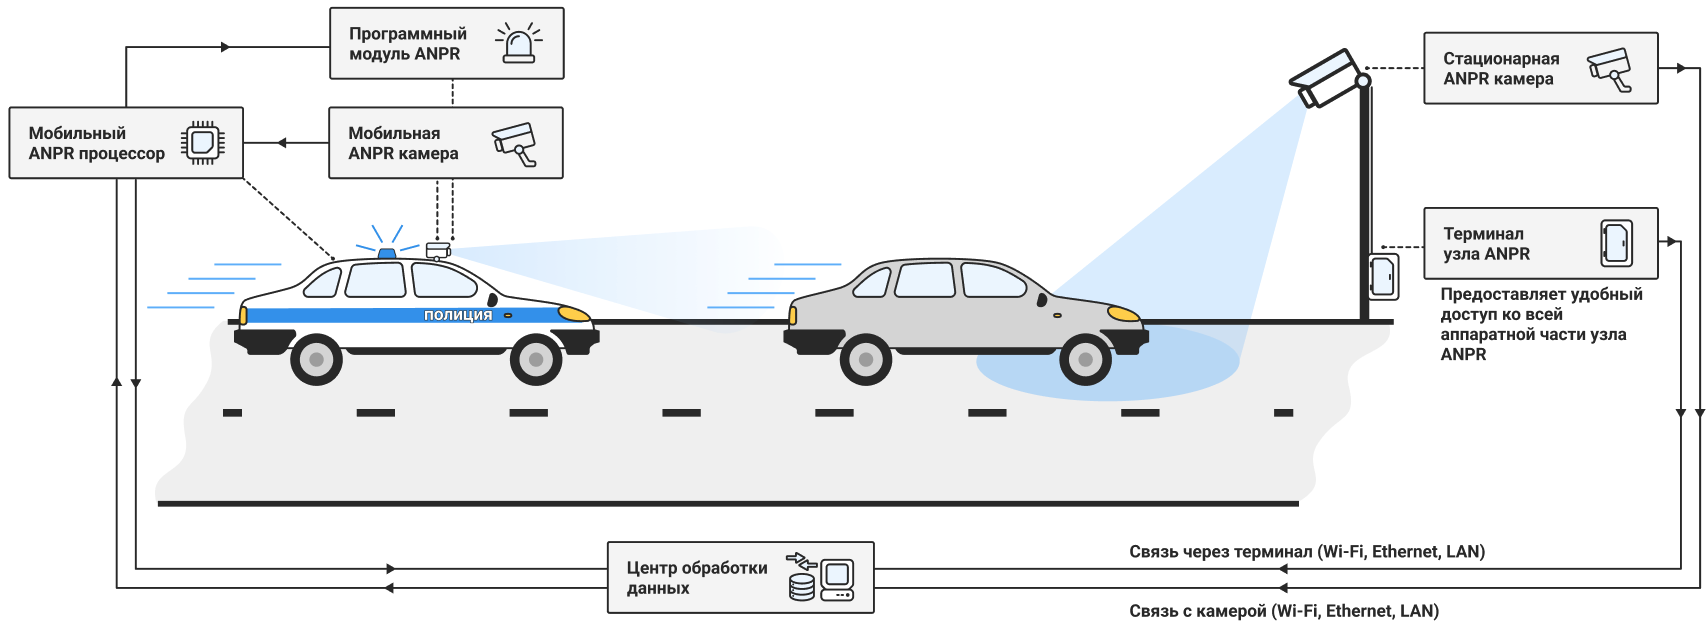
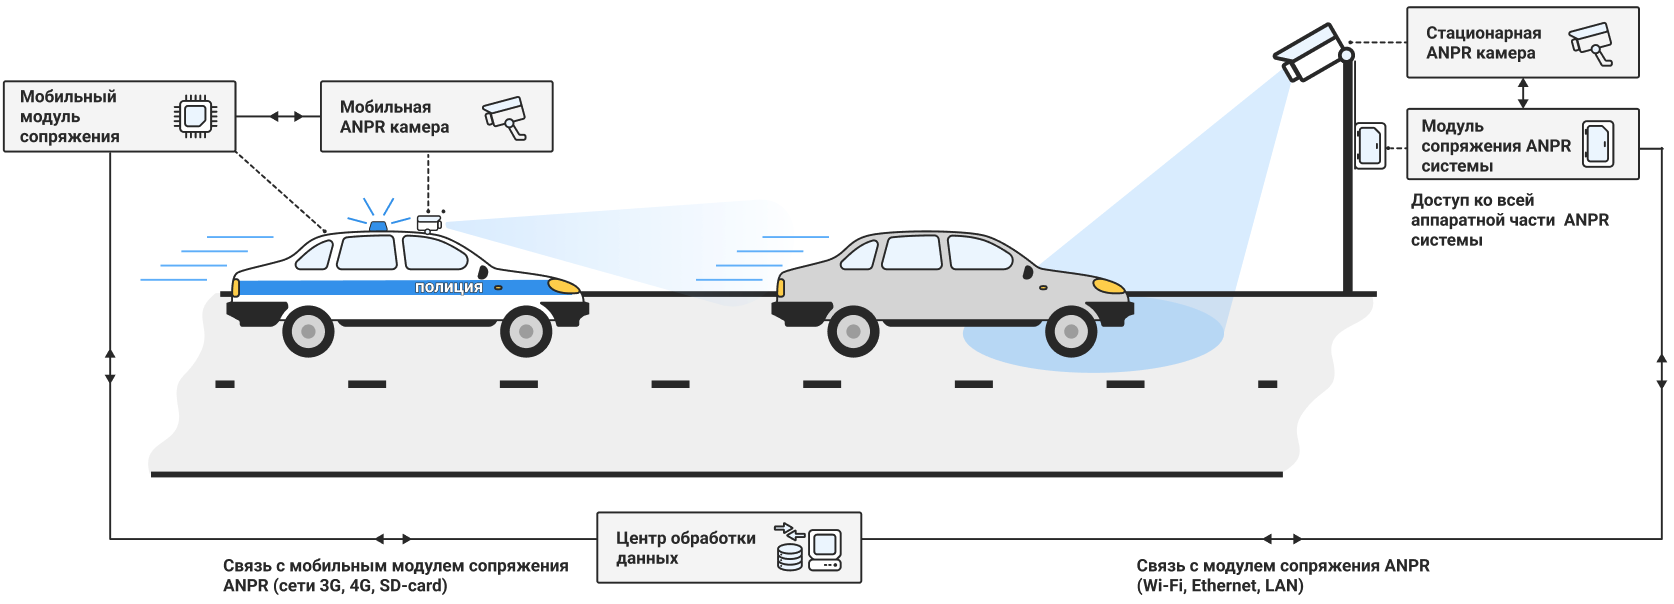
Update ANPR review

diff --git a/Disser.tex b/Disser.tex
@@ -158,7 +158,7 @@
 
 \subsubsection{Алгоритмы распознавания государственных регистрационных знаков}
 
-Распознавание государственных регистрационных знаков транспортных средств с помощью камер фотовидеофиксации является одним из наиболее распространённых способов идентификации автомобилей и фиксации нарушений правил дорожного движения. В англоязычной литературе для обозначения данной технологии используется несколько близких терминов: ANPR (Automatic Number Plate Recognition), ALPR (Automatic License Plate Recognition), LPR (License Plate Recognition), NPR (Number Plate Recognition), CPR (Car Plate Recognition), а также AVI (Automatic Vehicle Identification). В дальнейшем в данной работе под ANPR будет пониматься совокупность аппаратных и программных средств, предназначенных для получения изображения транспортного средства, выделения области номерного знака, преобразования содержащихся на нём символов в текстовую строку, а также определения иной информации на основе анализа изображения. В общем случае ANPR система осуществляет идентификацию транспортного средства по его государственному регистрационному знаку без участия оператора. Для этого используется камера, фиксирующая изображение или последовательность изображений автомобиля (рисунок~\ref{fig:anpr_structure}). В обзорной работе \cite{ANPR12} отмечается, что ANPR система может использовать цветные, чёрно-белые или инфракрасные камеры, а качество получаемого изображения является одним из ключевых факторов, определяющих успешность распознавания.
+Распознавание государственных регистрационных знаков транспортных средств с помощью камер фотовидеофиксации является одним из наиболее распространённых способов идентификации автомобилей и фиксации нарушений правил дорожного движения. В англоязычной литературе для обозначения данной технологии используется несколько близких терминов: ANPR (Automatic Number Plate Recognition), ALPR (Automatic License Plate Recognition), LPR (License Plate Recognition), NPR (Number Plate Recognition), CPR (Car Plate Recognition), AVI (Automatic Vehicle Identification) и другие. В дальнейшем в данной работе под ANPR будет пониматься совокупность аппаратных и программных средств, предназначенных для получения изображения транспортного средства, выделения области номерного знака, преобразования содержащихся на нём символов в текстовую строку, а также определения иной информации на основе анализа изображения. В общем случае ANPR система осуществляет идентификацию транспортного средства по его государственному регистрационному знаку без участия оператора. Для этого используется камера, фиксирующая изображение или последовательность изображений автомобиля (рисунок~\ref{fig:anpr_structure}). В обзорной работе \cite{ANPR12} отмечается, что ANPR система может использовать цветные, чёрно-белые или инфракрасные камеры, а качество получаемого изображения является одним из ключевых факторов, определяющих успешность распознавания.
 
 \begin{figure}[htbp]
     \centering
@@ -169,7 +169,7 @@
 
 Современные системы автоматического распознавания государственных регистрационных знаков применяются не только для идентификации транспортных средств, но и для решения широкого круга задач в области организации и контроля дорожного движения. Они используются для контроля доступа на охраняемые территории, управления парковочным пространством и системами взимания платы за проезд, автоматизации логистических процессов, выявления нарушений правил дорожного движения, а также в деятельности правоохранительных органов и служб безопасности. Кроме того, ANPR системы позволяют осуществлять мониторинг транспортных потоков: выполнять подсчёт и классификацию транспортных средств, определять направление и скорость их движения, оценивать длину очередей и другие характеристики дорожной обстановки~\cite{Lin2020, Thangallapally2018, Negassi2018}. Возможность автоматической обработки большого количества быстро движущихся транспортных средств обусловила широкое распространение технологии ANPR в интеллектуальных транспортных системах.
 
-Первые разработки в области автоматического распознавания государственных регистрационных знаков относятся к концу 1970-х годов. Согласно~\cite{ShraddhaShridharGhadage2020}, первая ANPR система была разработана в Великобритании по инициативе Police Scientific Development Branch. Первый работоспособный прототип системы появился в 1979 году; первоначально контракт на его создание был предоставлен компании EMI Electronics, а впоследствии дальнейшая разработка и совершенствование технологии были переданы компании Computer Recognition Systems (CRS).
+Первые разработки в области автоматического распознавания государственных регистрационных знаков относятся к концу 1970-х годов. Согласно~\cite{ShraddhaShridharGhadage2020}, первая ANPR система была разработана в Великобритании по инициативе Police Scientific Development Branch. Первый работоспособный прототип системы появился в 1979 году; первоначально контракт на его создание был предоставлен компании EMI Electronics, а впоследствии дальнейшая разработка и совершенствование технологии были переданы компании Computer Recognition Systems.
 
 Процесс идентификации траспортного средства в типовой ANPR системе включает несколько последовательных этапов (рисунок~\ref{fig:anpr_algorythm}). На первом этапе выполняется получение изображения ТС с помощью камеры. На втором этапе осуществляется локализация государственного регистрационного знака, то есть выделение области изображения, в которой предположительно расположен ГРЗ (Number Plate Extraction, NPE). Далее выполняется сегментация символов, при которой изображение номерного знака разделяется на отдельные буквенно-цифровые элементы (Character Segmentation, CS). На заключительном этапе производится распознавание символов с использованием методов OCR (Optical Character Recognition) или специализированных классификаторов~\cite{ANPR21}. При этом в современных нейросетевых подходах отдельные стадии могут объединяться, однако логически задача по-прежнему сводится к обнаружению номерного знака и распознаванию содержащейся на нём последовательности символов.
 
@@ -196,7 +196,7 @@
 
 \textcolor{red}{Начало PLAVAC (базированная база)}
 
-В современных исследованиях в области ANPR значительное внимание уделяется обеспечению устойчивого распознавания ГРЗ в неблагоприятных условиях эксплуатации систем идентификации транспорта~\cite{ANPR25}. Подробное исследование влияния искажающих факторов на эффективность автоматического распознавания ГРЗ представлено в работах авторов Nikola Plavac, Seyed Ali Amirshahi и других~\cite{Plavac2024, Plavac2024short}. В качестве основных факторов, вносящих неточности, исследовались погодные воздействия, включающие дождь, туман, снег и иней, изменение яркости изображения, а также электронный шум, возникающий при считывании сигнала с фоточувствительного сенсора камеры (рисунок~\ref{fig:distortions}). Для большинства типов воздействий на входное изображение использовалось пять уровней интенсивности, что позволило исследовать изменение эффективности различных алгоритмов ANPR при последовательном ухудшении условий съёмки.
+В современных исследованиях систем идентификации транспорта всё чаще уделяется внимание обеспечению устойчивого распознавания ГРЗ при неблагоприятных условиях окружающей среды~\cite{ANPR25}. Подробное исследование влияния искажающих факторов на эффективность автоматического распознавания ГРЗ представлено в работах авторов Nikola Plavac, Seyed Ali Amirshahi и других~\cite{Plavac2024, Plavac2024short}. В качестве основных факторов, вносящих неточности, исследовались погодные воздействия, включающие дождь, туман, снег и иней, изменение яркости изображения, а также электронный шум, возникающий при считывании сигнала с фоточувствительного сенсора камеры (рисунок~\ref{fig:distortions}). Для каждого вида искажения входного изображения, как правило, предусматривалось пять уровней интенсивности, которые последовательно применялись к каждому изображению. Это позволило исследовать изменение эффективности различных алгоритмов ANPR по мере увеличения степени искажения изображений.
 
 \begin{figure}[h]
     \centering
@@ -211,37 +211,58 @@
 
 Существенное снижение эффективности ANPR систем наблюдалось при моделировании инея и снега. Для всех трёх исследованных систем увеличение интенсивности влияния инея на входные изображения сопровождалось снижением точности распознавания, однако величина этого снижения существенно различалась. Наиболее чувствительной оказалась система ALPR in Unconstrained Scenarios - её точность уменьшалась практически до нуля при максимальном уровне искажения инеем. Значительное ухудшение наблюдалось и для коммерческой системы UltimateALPR-SDK - её точность снижалась до 35,39\%. Алгоритм HyperLPR оказался более устойчивым к данному воздействию - в худшем случае вероятность идентификации ГРЗ опускалась не ниже 58,04\%.
 
-Также авторы изучали, на каком этапе определения номера возникает ошибка распознавания. Для этого наряду с общей точностью распознавания анализировались ошибки обнаружения номерного знака и ошибки распознавания его символов. Установлено, что различные виды искажений по-разному воздействуют на компоненты ANPR алгоритмов. В частности, дождь и шум считывания камеры в большей степени влияют на этап обнаружения номерного знака, тогда как изменение яркости, туман, иней и снег в ряде исследованных моделей сильнее сказываются на распознавании символов. При этом характер деградации распознавания существенно зависит от используемой архитектуры.
+Также авторы изучали, на каком этапе определения номера возникает ошибка распознавания. Для этого наряду с общей точностью распознавания анализировались ошибки локализации номерного знака и ошибки распознавания его символов. Установлено, что различные виды искажений по-разному воздействуют на компоненты ANPR алгоритмов. В частности, дождь и шум считывания камеры в большей степени влияют на этап локализации номерного знака, тогда как изменение яркости, туман, иней и снег в ряде исследованных моделей сильнее сказываются на распознавании отдельных символов. При этом характер деградации распознавания ГРЗ существенно зависит от применяемого алгоритма.
 
-\textcolor{red}{КОНЕЦ PLAVAC}
+\textcolor{red}{Конец PLAVAC (базированная база)}
 
-\textcolor{red}{Начало 72 и 8\% РАСПОЗНАВАНИЯ}
+\textcolor{red}{Начало парковки и '72 и 8\% распознавания'}
 
-В работе~\cite{Advaith2026} представлена ANPR система, разработанная для управления доступом ТС на парковку. Для обнаружения номерного знака на изображении использовалась нейросетевая архитектура InceptionResNetV2, а для распознавания отдельных символов — комбинация архитектур MobileNetV2 и EfficientNetV2. Обучение и тестирование алгоритмов проводились на наборах изображений индийских ГРЗ. В результате проведённых численных экспериментов вероятность обнаружения номерных знаков составила 97,3\%, а точность распознавания отдельных символов — 98,59\%. При совместном выполнении этапов обнаружения и распознавания символов точность определения полного номерного знака достигала 95,8\%.
+ANPR системы находят широкое применение при автоматизации парковок, обеспечивая идентификацию ТС при въезде и выезде, контроль доступа и учёт продолжительности стоянки автомобилей. В работах~\cite{Kalva2025,Pradhan2025,Ebrahimishadman2026} представлены различные варианты таких систем, основанные на современных алгоритмах локализации и распознавания номерных знаков. Авторами рассматриваются вопросы повышения точности распознавания и обеспечения работоспособности систем в реальных условиях эксплуатации. При этом результаты исследований указывают на снижение эффективности распознавания при ухудшении условий получения изображений (вплоть до значений порядка 0,8), а также на различия между точностью отдельных алгоритмов.
 
-Помимо разработки очередного ANPR алгоритма, авторы уделили внимание исследованию работоспособности предложенной системы при неблагоприятных условиях окружающей среды. При сильном тумане, ограничивающем видимость до 50 м, вероятность идентификации номерных знаков снижалась с 97,3 до 72\%. Более существенное ухудшение наблюдалось при сильном дожде, когда точность распознавания отдельных символов составляла всего 8 \% по сравнению с 98,59 \%, полученными при тестировании алгоритма в обычных условиях. Таким образом, воздействие неблагоприятных погодных факторов приводило к значительному снижению эффективности работы ANPR системы.
+В работе~\cite{Advaith2026} представлена ANPR система, разработанная для управления доступом ТС на парковку. Для обнаружения номерного знака на изображении использовалась нейросетевая архитектура InceptionResNetV2, а для распознавания отдельных символов — комбинация архитектур MobileNetV2 и EfficientNetV2. Обучение и тестирование алгоритмов проводились на наборах изображений индийских ГРЗ. В результате проведённых численных экспериментов вероятность локализации номерных знаков составила 97,3\%, а точность распознавания отдельных символов — 98,59\%. При совместном выполнении этапов локализации и распознавания символов точность распознавания ГРЗ достигала 95,8\%.
 
-\textcolor{red}{КОНЕЦ 72 и 8\% РАСПОЗНАВАНИЯ}
+Помимо разработки очередного ANPR алгоритма, авторы уделили внимание исследованию работоспособности предложенной системы при неблагоприятных условиях окружающей среды. При сильном тумане, ограничивающем видимость до 50 м, вероятность идентификации номерных знаков снижалась с 97,3\% до 72\%. Более существенное ухудшение наблюдалось при сильном дожде, когда точность распознавания отдельных символов составляла всего 8 \% по сравнению с 98,59 \%, полученными при тестировании алгоритма в обычных условиях. Таким образом, воздействие неблагоприятных погодных факторов приводило к значительному снижению эффективности работы ANPR системы.
+
+\textcolor{red}{Конец парковки и '72 и 8\% распознавания'}
 
 \textcolor{red}{Начало обсуждения про идентификацию марки и цвета камерой}
 
-В современных системах фотовидеофиксации наряду с распознаванием государственных регистрационных знаков могут определяться дополнительные визуальные характеристики транспортного средства, в частности его марка, модель и цвет. Использование таких признаков позволяет осуществлять поиск транспортных средств по их внешним характеристикам, а также получать дополнительную информацию, которая может быть использована при идентификации. Возможность применения данного подхода исследовалась в работе Panetta и соавторов~\cite{Panetta2021}. Авторами разработана система V-Localize, предназначенная для автоматического поиска и распознавания автомобилей на видеозаписях дорожного движения по совокупности визуальных признаков, включающих марку, модель, год выпуска и цвет. Для определения указанных характеристик исследовались различные нейросетевые архитектуры, среди которых наилучшие результаты продемонстрировала RepVGG. При тестировании на отдельных изображениях точность определения марки, модели и года выпуска автомобиля составила 85,59\%, а точность определения цвета — 91,60\%.
+В современных системах фотовидеофиксации наряду с распознаванием государственных регистрационных знаков могут определяться дополнительные визуальные характеристики ТС, в частности его марка, модель и цвет. Использование таких признаков позволяет осуществлять поиск транспортных средств по их внешним характеристикам, а также повышать достоверность их идентификации за счёт учёта дополнительной информации~\cite{Sadiq2025, Gayen2024, Lima2024}. Возможность применения данного подхода исследовалась в работе Panetta и соавторов~\cite{Panetta2021}. Авторами разработана система V-Localize, предназначенная для автоматического поиска и распознавания автомобилей на видеозаписях дорожного движения по совокупности визуальных признаков, включающих марку, модель, год выпуска и цвет. Для определения указанных характеристик исследовались различные нейросетевые архитектуры, среди которых наилучшие результаты продемонстрировала RepVGG. При тестировании на отдельных изображениях точность определения марки, модели и года выпуска автомобиля составила 85,59\%, а точность определения цвета — 91,60\%.
 
 Исследование эффективности определения цвета автомобиля в неблагоприятных погодных условиях представлено в работе~\cite{Hu2022}. Авторами разработан алгоритм JADAR (Joint Algorithm for Deraining And Recognition), основанный на совместном применении нейросетевых архитектур RetinaNet и UNet и предназначенный для обнаружения транспортных средств и определения их цвета на изображениях, полученных в условиях дождя. Для оценки эффективности предложенного подхода использовался набор данных Rain Vehicle Color-24, содержащий изображения автомобилей 24 цветовых категорий с искусственно смоделированным воздействиям дождя. Дополнительно проводилось тестирование на изображениях, полученных камерами дорожного видеонаблюдения в дождливую погоду.
 
-В ходе исследования проводилось сравнение разработанного алгоритма с рядом существующих методов обнаружения объектов и определения цвета транспортных средств. В качестве основного показателя эффективности использовалась средняя точность обнаружения по всем цветовым категориям (mAP). По результатам тестирования на наборе Rain Vehicle Color-24 значения mAP для алгоритмов SMNN-MSFF и YOLOv3 составили 48,58\% и 49,88\% соответственно, для Faster R-CNN — 60,65\%, SSD — 66,33\%, RetinaNet — 67,77\%. Наибольшее значение данного показателя, равное 72,07\%, было получено для разработанного авторами алгоритма JADAR. При этом эффективность определения цвета существенно зависела от цветовой категории автомобиля. Например, при использовании YOLOv3 показатель mAP для серого цвета составил 0,15, для коричневого — 0,22, а для тёмно-зелёного, красно-оранжевого и ряда других цветов оказался равен нулю. Полученные результаты показывают, что определение цвета транспортного средства в условиях дождя представляет собой достаточно сложную задачу даже при использовании современных нейросетевых алгоритмов. 
+В ходе исследования проводилось сравнение разработанного алгоритма с рядом существующих методов обнаружения объектов и определения цвета транспортных средств. В качестве основного показателя эффективности использовалась средняя точность обнаружения по всем цветовым категориям (mAP). По результатам тестирования на наборе Rain Vehicle Color-24 значения mAP для алгоритмов SMNN-MSFF и YOLOv3 составили 48,58\% и 49,88\% соответственно, для Faster R-CNN — 60,65\%, SSD — 66,33\%, RetinaNet — 67,77\%. Наибольшее значение данного показателя, равное 72,07\%, было получено для разработанного авторами алгоритма JADAR. При этом эффективность определения цвета существенно зависела от цветовой категории автомобиля. Например, при использовании YOLOv3 показатель mAP для серого цвета составил 15\%, для коричневого — 22\%, а для тёмно-зелёного, красно-оранжевого и ряда других цветов оказался равен нулю. Полученные результаты показывают, что определение цвета транспортного средства в условиях дождя представляет собой достаточно сложную задачу даже при использовании современных нейросетевых алгоритмов. 
 
 \textcolor{red}{Конец обсуждения про идентификацию марки и цвета камерой}
 
+\textcolor{red}{Начало обсуждения про зависимость результатов от смены датасетов}
+
+Одной из проблем, возникающих при разработке систем автоматического распознавания государственных регистрационных знаков, является снижение эффективности алгоритмов при обработке изображений, характеристики которых отличаются от характеристик данных, использовавшихся при обучении. Это обусловлено тем, что наборы изображений могут различаться по условиям съёмки, качеству изображений, форматам номерных знаков и другим особенностям~\cite{Wang2025, Khokhar2024, Laroca2022, Laroca2022a}. В связи с этим представляет интерес исследование устойчивости алгоритмов распознавания к изменению характеристик входных данных, а также разработка методов, позволяющих повысить их эффективность при работе с ранее неизвестными наборами изображений. Данная проблема была рассмотрена в работе~\cite{Laroca2025}, в которой проводилось сравнительное исследование 16 нейросетевых моделей распознавания ГРЗ на 12 общедоступных наборах изображений. Эксперименты предусматривали тестирование моделей как на наборах данных, использовавшихся при их обучении, так и на ранее неизвестных наборах.
+
+
+Результаты исследования показали, что эффективность распознавания может существенно снижаться при переходе к новым наборам изображений. В частности, для модели TRBA средняя доля правильно распознанных ГРЗ при тестировании на наборах данных, представленных в обучающей выборке, составляла 97,9\%, тогда как при использовании ранее неизвестных наборов снижалась до 92,9\%. Для модели STAR-Net соответствующие значения составляли 97,9\% и 90,7\%. При этом на отдельных наборах данных наблюдалось более существенное снижение эффективности. Так, при тестировании модели TRBA на наборе OpenALPR-EU доля правильно распознанных номерных знаков составляла 76,9\%, тогда как на наборе OpenALPR-BR достигала 99,4\%. Авторами также показано, что использование синтетических изображений при обучении позволяет повысить устойчивость алгоритмов распознавания, однако не устраняет полностью различия в эффективности при переходе к новым наборам данных.
+
+\textcolor{red}{Конец обсуждения про зависимость результатов от смены датасетов}
+
 Таким образом, высокая точность ANPR систем, достигаемая при благоприятных условиях съёмки, не гарантирует сохранения сопоставимой эффективности при ухудшении качества входного изображения. В зависимости от характера внешнего воздействия и используемого алгоритма точность распознавания может снижаться от незначительных величин до нескольких десятков процентных пунктов, а при наиболее неблагоприятных сочетаниях условий — практически до нулевых значений. Результаты обзора тестирования различных алгоритмов ANPR систем показывают, что при оценке эффективности идентификации транспортных средств с использованием камер необходимо учитывать не только точность применяемого алгоритма в штатных условиях, но и её изменение под воздействием факторов внешней среды.
+
+
 
 \subsubsection{Экспериментальные исследования эффективности камер фотовидеофиксации}
 
-Оценка эффективности алгоритмов автоматического распознавания государственных регистрационных знаков, как правило, осуществляется путём их тестирования на заранее подготовленных наборах изображений. Такой подход позволяет сравнивать различные алгоритмы и определять их устойчивость к изменениям характеристик изображений. Однако эффективность ANPR системы в реальных условиях эксплуатации зависит не только от используемого алгоритма, но и от характеристик аппаратных средств, в частности камеры, а также условий формирования изображения. Поэтому наряду с тестированием отдельных алгоритмов важное значение имеет экспериментальная оценка эффективности ANPR систем как законченных аппаратно-программных комплексов, учитывающая влияние процесса получения изображений на результаты распознавания ГРЗ.
+Оценка эффективности алгоритмов автоматического распознавания государственных регистрационных знаков, как правило, осуществляется путём их тестирования на заранее подготовленных наборах изображений. Такой подход позволяет сравнивать различные алгоритмы и определять их устойчивость к изменениям характеристик изображений. Однако эффективность ANPR системы в реальных условиях эксплуатации зависит не только от используемого алгоритма, но и от характеристик аппаратных средств, в частности камеры, а также условий формирования изображения~\cite{Leszczuk2023}. Поэтому наряду с тестированием отдельных алгоритмов важное значение имеет экспериментальная оценка эффективности ANPR систем как законченных аппаратно-программных комплексов, учитывающая влияние процесса получения изображений на результаты распознавания ГРЗ.
 
-В работе Zhao и соавторов~\cite{Zhao2025} исследовалась зависимость эффективности автоматического распознавания государственных регистрационных знаков от характеристик получаемого изображения. Авторами разработан лабораторный стенд, позволяющий проводить испытания коммерческих ANPR-систем в контролируемых условиях путём воспроизведения изображений транспортных средств на экране высокого разрешения. В ходе исследования проводилось сравнение пяти коммерческих систем распознавания ГРЗ при изменении разрешения изображения, его яркости и неравномерности освещённости, геометрических искажений, а также степени размытия вследствие нарушения фокусировки и движения. В качестве основного показателя эффективности использовалась доля номерных знаков, для которых система правильно определяла их положение на изображении и распознавала все символы.
+В работе Zhao и соавторов~\cite{Zhao2025} исследовалась зависимость эффективности автоматического распознавания государственных регистрационных знаков от характеристик получаемого изображения. Авторами разработан лабораторный стенд, позволяющий проводить испытания ANPR систем в контролируемых условиях путём воспроизведения изображений транспортных средств на экране высокого разрешения. В ходе исследования проводилось сравнение пяти коммерческих систем распознавания ГРЗ при изменении ширины изображения номерного знака в пикселях, его средней яркости и неравномерности освещённости, углов поворота и перспективных искажений, а также степени размытия изображения, вызванного расфокусировкой камеры или движением транспортного средства. Под шириной изображения номерного знака в данном случае понимается количество пикселей, занимаемых изображением ГРЗ по горизонтали. В качестве основного показателя эффективности использовалась доля номерных знаков, для которых система правильно определяла их положение на изображении и распознавала все символы.
 
-Результаты экспериментов показали существенную зависимость эффективности распознавания ГРЗ от исследуемых характеристик изображения. В частности, при ширине изображения номерного знака, равной 12 пикселям, доля правильно распознанных номеров для большинства исследованных систем не превышала 0,1, тогда как при увеличении ширины до 18 пикселей для четырёх из пяти систем данный показатель достигал значений, близких к единице. Под шириной изображения номерного знака в данном случае понимается количество пикселей, занимаемых изображением ГРЗ по горизонтали. Также исследовалось влияние угла поворота номерного знака в плоскости изображения, определяемого как угол между его продольной осью и горизонтальной осью изображения. При увеличении данного угла до 15° доля правильно распознанных номеров для одной из систем снижалась приблизительно до 0,1, тогда как для двух других оставалась близкой к единице. При углах поворота порядка 35–40° практически все исследованные системы переставали правильно распознавать ГРЗ. Кроме того, существенное снижение эффективности наблюдалось при увеличении степени размытия изображения вследствие движения.
+Результаты экспериментов показали существенную зависимость эффективности распознавания ГРЗ от исследуемых характеристик изображения. В частности, при ширине изображения номерного знака, равной 12 пикселям, доля правильно распознанных номеров для большинства исследованных систем не превышала 0,1, тогда как при увеличении ширины до 18 пикселей для четырёх из пяти систем данный показатель достигал значений, близких к единице. Также исследовалось влияние угла поворота номерного знака в плоскости изображения, определяемого как угол между продольной осью ГРЗ и горизонтальной осью изображения. При увеличении данного угла до 15° доля правильно распознанных номеров для одной из систем снижалась приблизительно до 0,1, тогда как для двух других оставалась близкой к единице. При углах поворота порядка 35–40° практически все исследованные системы переставали правильно распознавать ГРЗ. Кроме того, существенное снижение эффективности наблюдалось при увеличении степени размытия изображения вследствие движения.
+
+Одним из факторов, определяющих эффективность работы ANPR систем, являются параметры размещения камер, от которых зависят условия получения изображений транспортных средств и их регистрационных знаков. Влияние данных параметров на эффективность автоматического распознавания ГРЗ исследовалось в работах~\cite{Netinant2024,Pradhan2025,Glasenapp2023}. Авторами рассматривалась зависимость результатов распознавания от расстояния между камерой и транспортным средством, угла наблюдения и высоты установки камеры. Результаты экспериментальных исследований показали, что увеличение расстояния до автомобиля и отклонение направления наблюдения от фронтального положения могут приводить к существенному снижению эффективности распознавания ГРЗ. В частности, в работе~\cite{Netinant2024} проводились испытания ANPR-системы при изменении расстояния до автомобиля от 5 до 10 м, угла наблюдения и скорости движения от 5 до 15 км/ч. Статистический анализ полученных результатов подтвердил значимое влияние всех трёх факторов на эффективность распознавания. В работе~\cite{Pradhan2025} также исследовалось влияние расстояния до автомобиля и угла наблюдения на результаты распознавания ГРЗ в системе автоматизации парковки. Полученные результаты свидетельствуют о необходимости учитывать геометрические параметры размещения камер при проектировании ANPR-систем, поскольку даже при использовании одного и того же алгоритма эффективность распознавания может существенно различаться в зависимости от условий получения изображений.
+
+В работе Kim и Jeong~\cite{Kim2023} исследовалось влияние характеристик камер видеонаблюдения и особенностей их размещения на эффективность обнаружения движущихся объектов (пешеходов). Авторами разработана имитационная модель, позволяющая определять области наблюдения камер с учётом высоты их установки, направления оптической оси, фокусного расстояния объектива и размеров светочувствительной матрицы. В ходе исследования оценивались продолжительность нахождения объектов в области наблюдения камер и пространственное разрешение их изображений. Результаты моделирования показали, что увеличение высоты установки камер позволяет расширить контролируемую область, однако сопровождается снижением детализации изображений наблюдаемых объектов. В частности, при использовании 500 камер увеличение высоты установки с 5 до 20 м приводило к увеличению средней продолжительности наблюдения с 257,1 до 599,2 с при общей продолжительности моделирования 600 с. Вместе с тем показатель пространственного разрешения уменьшался с 87,32 до 14,89 тыс. пикселей/мс, то есть приблизительно в 5,9 раза. Полученные результаты свидетельствуют о необходимости учитывать не только площадь контролируемой территории, но и качество получаемых изображений при выборе параметров установки камер видеонаблюдения.
+
+\textcolor{red}{Конец обсуждения экспериментов}
+
+Широкое внедрение камер фотовидеофиксации во всех развитых странах мира позволило значительно повысить безопасность дорожного движения, снизить смертность и ограничить материальный ущерб за счёт уменьшения количества аварий на автодорогах. Это также стимулировало дальнейшие исследования (вплоть до последнего времени) в данной области \textcolor{red}{Ссылки на работы 25 и 26 годов}. При этом авторы многочисленных работ в этой области не ограничивают возможность идентификации транспорта альтернативными методами, в частности, системами радиочастотной идентификации (RFID).
 
 \subsection{Технология радиочастотной идентификации транспортных средств}
 
